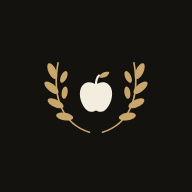
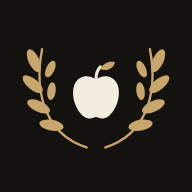
v1.6.1 - Ícono nuevo: laurel y manzana más grandes, como la familia de íconos

Changed region(s): [[0.0938, 0.25, 0.9062, 0.75], [0.5312, 0.75, 0.5938, 0.7812], [0.4062, 0.75, 0.4688, 0.7812]]

diff --git a/src/lib/novedades.ts b/src/lib/novedades.ts
@@ -1,6 +1,13 @@
 /** Novedades de cada versión: se muestran en Perfil → Ajustes (solo admin) */
 export const NOVEDADES: { version: string; fecha: string; cambios: string[] }[] = [
   {
+    version: '1.6.1',
+    fecha: '2026-11-19',
+    cambios: [
+      'Ícono nuevo: el laurel y la manzana más grandes, igual que el resto de la familia de íconos.',
+    ],
+  },
+  {
     version: '1.6.0',
     fecha: '2026-11-19',
     cambios: [

diff --git a/CLAUDE.md b/CLAUDE.md
@@ -53,7 +53,7 @@ App de nutrición de la familia estoica, hermana de **Stoica** (https://stoica-a
 - Detalle propio: **color de acento** (`data-acento` = `oliva` | `terracota` | `bronce`, en Perfil → Apariencia) para el agua y las comidas registradas (desde v1.6.0 ya no cambia las grasas).
 - **Colores de datos (v1.6.0, pedido del dueño: la paleta sola no distinguía bien):** macros fijos `--prot` (rojo terracota) / `--carb` (azul) / `--gras` (ocre); series `--serie-1…8` + `--serie-otras` en orden fijo, el color sigue a la comida (su lugar en la lista), nunca se repite (la 9.ª en adelante = "Otras"). Validados con el skill dataviz (`validate_palette.js`) en claro (`#FAF7F1`) y oscuro (`#1D1A15`): si se cambian, volver a validar. **Pendiente que el dueño elija el predeterminado** (hoy: oliva). Capturas `70-acento-*`.
 - PC (≥1024 px): contenido hasta 1480 px, barra lateral 248 px, tarjetas radio 16. Celular: máximo 480 px y pestañas abajo (Hoy · Diario · Plan · Progreso · Perfil).
-- Ícono: igual al de Stoica (cuadrado `#14120E`, laurel dorado `#C9A66B`) con una **manzana marfil** `#F3EDDF` en lugar de letra (decisión del dueño). Cambiar el ícono obliga a reinstalar la APK.
+- Ícono: igual al de Stoica (cuadrado `#14120E`, laurel dorado `#C9A66B`) con una **manzana marfil** `#F3EDDF` en lugar de letra (decisión del dueño). Desde v1.6.1 laurel y manzana van agrandados ×1,42 desde el centro, igual que la familia de íconos hermanos (mancuerna = entrenamiento, check = hábitos, libro = aprendizaje, busto = mente; el dueño tiene los SVG). Cambiar el ícono obliga a reinstalar la APK.
 - Esqueletos (`Cargando`) en vez de "Cargando…". Tarjetas lado a lado siempre del mismo alto.
 - Hoy y Diario no repiten lo mismo (pedido del dueño): Hoy = anillo + barras de macros + comidas + tu semana (sin agua); Diario = calorías restantes, "Nutrientes del día" en tabla (comido · meta · quedan), "Calorías por comida" y el agua (solo ahí).
 - Las grillas llevan `grid-cols-1` en celular: sin eso se estiran al contenido y la página queda más ancha que la pantalla (hay prueba).
